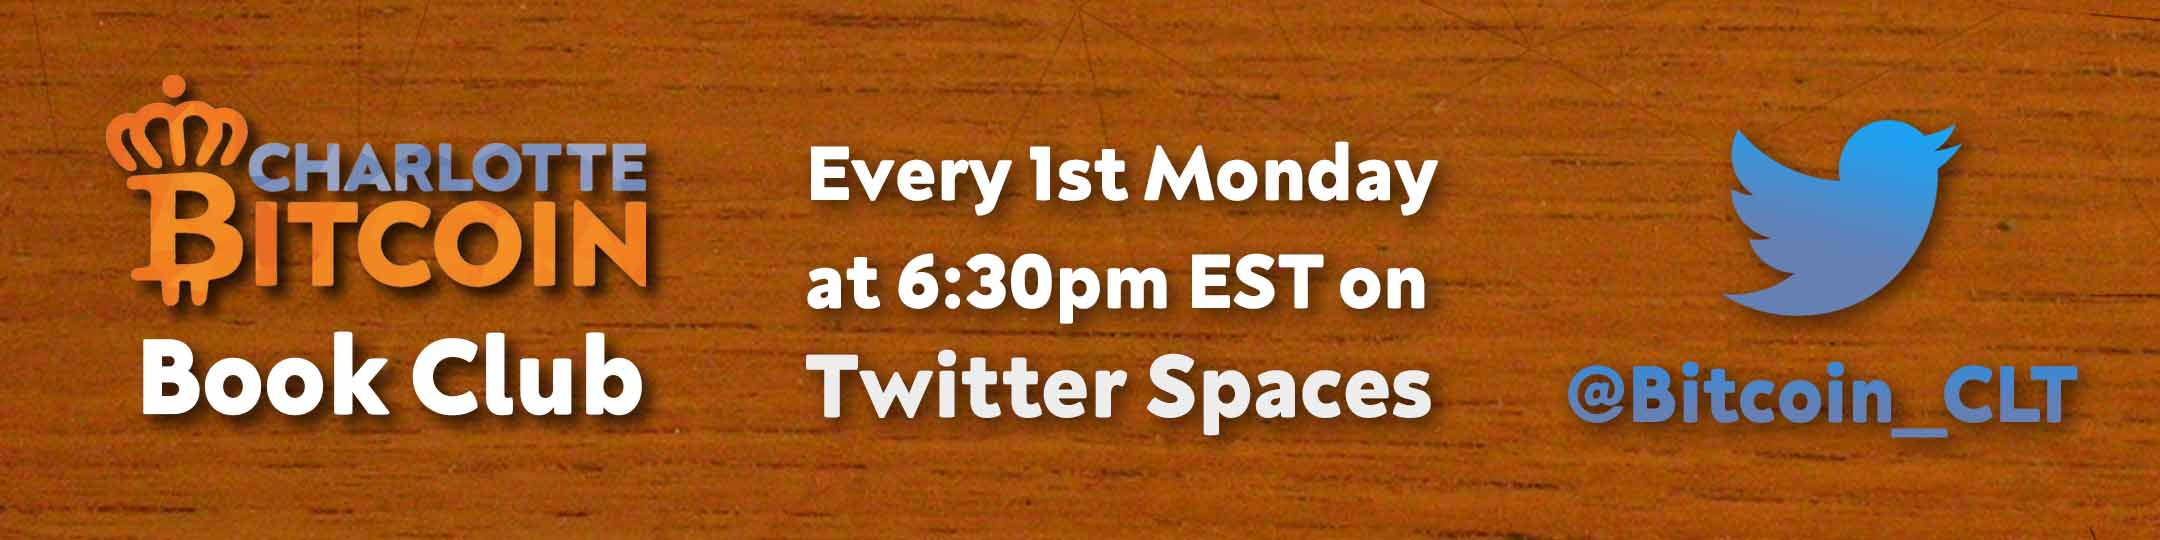
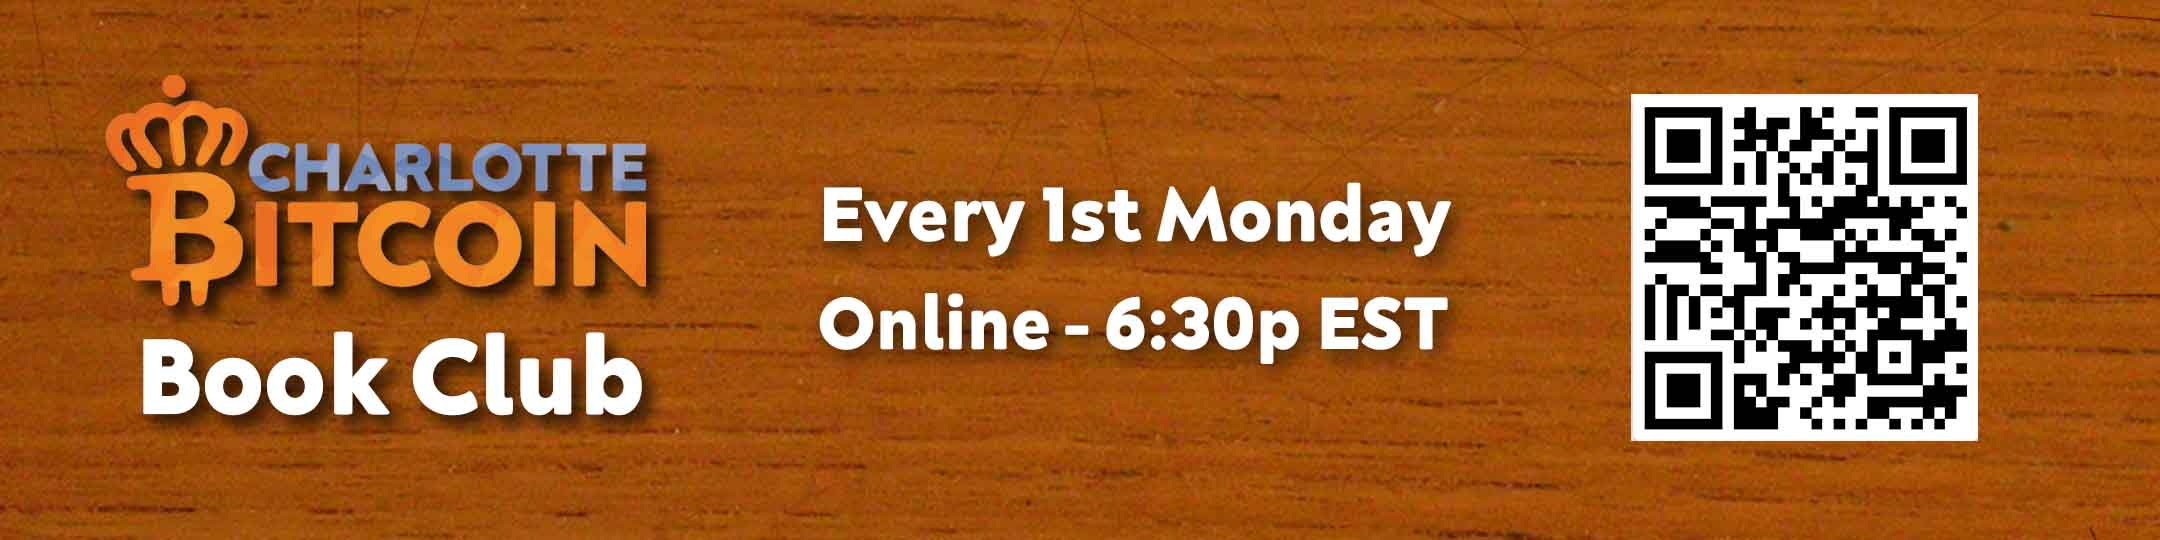
Book club updates to nostr. and other stuff i dont remember.

Changed region(s): [[0.3722, 0.2667, 0.6824, 0.8296], [0.7134, 0.1481, 0.9926, 0.8296]]

diff --git a/source/book-club.md b/source/book-club.md
@@ -11,22 +11,23 @@ active_tab: events
 
 
 <div class="book cleanbook">
-    <a href="https://www.amazon.com/Bitcoin-Beef-Criticisms-Similarities-Decentralization/dp/B09W799F5F/?tag=bitcoincharlo-20" target="_blank"><img src="/assets/img/posts/bookclub/Book10.jpg" alt="Bitcoin and Beef" title="Bitcoin and Beef"/></a>
-</div>
-
-## Book #10 - Bitcoin and Beef
-* [Read](https://www.amazon.com/Bitcoin-Beef-Criticisms-Similarities-Decentralization/dp/B09W799F5F/?tag=bitcoincharlo-20)
-* March 6th, 2023 @ 6:30pm &nbsp; [Download] | [Twitter Spaces](https://twitter.com/i/spaces/1BRJjZVyMeZJw) | [Meetup](https://www.meetup.com/bitcoincharlotte/events/crnhbtyfcfbjb/)
-
----
-
-<div class="book cleanbook">
     <a href="https://braiins.com/books/bitcoin-mining-handbook" target="_blank"><img src="/assets/img/posts/bookclub/Book11.jpg" alt="Bitcoin Mining Handbook" title="Bitcoin Mining Handbook"/></a>
 </div>
 
 ## Book #11 - Bitcoin Mining Handbook
 * [Read](https://braiins.com/books/bitcoin-mining-handbook)
-* April 3rd, 2023 @ 6:30pm &nbsp; [Download] | [Twitter Spaces] | [Meetup](https://www.meetup.com/bitcoincharlotte/events/crnhbtyfcgbfb/)
+* April 3rd, 2023 @ 6:30pm &nbsp; [Download] | [Nostr Nests](https://nostrnests.com/g7377a) | [Meetup](https://www.meetup.com/bitcoincharlotte/events/crnhbtyfcgbfb/)
+
+---
+
+<div class="book cleanbook">
+    <a href="https://www.amazon.com/Bitcoin-Beef-Criticisms-Similarities-Decentralization/dp/B09W799F5F/?tag=bitcoincharlo-20" target="_blank"><img src="/assets/img/posts/bookclub/Book10.jpg" alt="Bitcoin and Beef" title="Bitcoin and Beef"/></a>
+</div>
+
+## Book #10 - Bitcoin and Beef
+* [Read](https://www.amazon.com/Bitcoin-Beef-Criticisms-Similarities-Decentralization/dp/B09W799F5F/?tag=bitcoincharlo-20)
+* <s>March 6th, 2023</s> April 10th, 2023 @ 6:30pm &nbsp; [Download] | [Nostr Nests](https://nostrnests.com/bakghc) | [Meetup](https://www.meetup.com/bitcoincharlotte/events/crnhbtyfcfbjb/)
+* (Postponed due to twitter spaces issues.)
 
 ---
 
@@ -36,7 +37,7 @@ active_tab: events
 
 ## Book #12 - 21 Lessons
 * [Read](https://www.amazon.com/21-Lessons-Learned-Falling-Bitcoin/dp/1697526349/?tag=bitcoincharlo-20) | [Listen](https://www.audible.com/pd/21-Lessons-What-Ive-Learned-from-Falling-Down-the-Bitcoin-Rabbit-Hole-Audiobook/B088C1DK58?qid=1660307416&sr=1-3&ref=a_search_c3_lProduct_1_3&pf_rd_p=83218cca-c308-412f-bfcf-90198b687a2f&pf_rd_r=B905DWC89AWSHMM7T59C)
-* May 1st, 2023 @ 6:30pm &nbsp; [Download] | [Twitter Spaces] | [Meetup](https://www.meetup.com/bitcoincharlotte/events/crnhbtyfchbcb/)
+* May 1st, 2023 @ 6:30pm &nbsp; [Download] | [Meetup](https://www.meetup.com/bitcoincharlotte/events/crnhbtyfchbcb/)
 
 ---
 
@@ -46,7 +47,7 @@ active_tab: events
 
 ## Book #13 - Bitcoin: Hard Money You Can't F\*ck With
 * [Read](https://www.amazon.com/Bitcoin-bitcoin-global-reserve-currency/dp/1838318402/ref=tmm_pap_swatch_0?_encoding=UTF8&qid=1672106445&sr=1-1/?tag=bitcoincharlo-20) | [Listen](https://www.audible.com/pd/Bitcoin-Hard-Money-You-Cant-F-ck-With-Audiobook/B08VBV2PP2?qid=1676312843&sr=1-1&ref=a_search_c3_lProduct_1_1&pf_rd_p=83218cca-c308-412f-bfcf-90198b687a2f&pf_rd_r=5YZQ42Y586WJRD0QMWN2&pageLoadId=JYvU4FfD4HvnLgt4&creativeId=0d6f6720-f41c-457e-a42b-8c8dceb62f2c)
-* June 5th, 2023 @ 6:30pm &nbsp; [Download] | [Twitter Spaces] | [Meetup](https://www.meetup.com/bitcoincharlotte/events/crnhbtyfcjbhb/)
+* June 5th, 2023 @ 6:30pm &nbsp; [Download] | [Meetup](https://www.meetup.com/bitcoincharlotte/events/crnhbtyfcjbhb/)
 
 ---
 
@@ -56,7 +57,7 @@ active_tab: events
 
 ## Book #14 - The UnCommunist Manifesto
 * [Read](https://www.amazon.com/UnCommunist-Manifesto-Message-Responsibility-Liberty/dp/B0B8BRL3RP/?tag=bitcoincharlo-20) | [Listen](https://www.audible.com/pd/The-UNcommunist-Manifesto-with-Mark-Moss-Aleks-Svetski-Podcast/B0B81S4F5Q)
-* July 3rd, 2022 @ 6:30pm &nbsp; [Download] | [Twitter Spaces] | [Meetup](https://www.meetup.com/bitcoincharlotte/events/crnhbtyfckbfb/)
+* July 3rd, 2023 @ 6:30pm &nbsp; [Download] | [Meetup](https://www.meetup.com/bitcoincharlotte/events/crnhbtyfckbfb/)
 
 ---
 
@@ -66,7 +67,7 @@ active_tab: events
 
 ## Book #15 - The Fiat Standard
 * [Read](https://www.amazon.com/Fiat-Standard-Slavery-Alternative-Civilization/dp/1544526474/?tag=bitcoincharlo-20) | [Listen](https://www.audible.com/pd/The-Fiat-Standard-Audiobook/B09VVCK4RY?qid=1676312876&sr=1-1&ref=a_search_c3_lProduct_1_1&pf_rd_p=83218cca-c308-412f-bfcf-90198b687a2f&pf_rd_r=S6DRGKK298XHZHAD1156&pageLoadId=iJoDg7ausHq3S4Iw&creativeId=0d6f6720-f41c-457e-a42b-8c8dceb62f2c)
-* August 7th, 2023 @ 6:30pm &nbsp; [Download] | [Twitter Spaces] | [Meetup](https://www.meetup.com/bitcoincharlotte/events/crnhbtyfclbkb/)
+* August 7th, 2023 @ 6:30pm &nbsp; [Download] | [Meetup](https://www.meetup.com/bitcoincharlotte/events/crnhbtyfclbkb/)
 
 ---
 
@@ -76,7 +77,7 @@ active_tab: events
 
 ## Book #16 - Bitcoin Clarity
 * [Read](https://www.amazon.com/Bitcoin-Clarity-Complete-Beginners-Understanding/dp/1733871209/?tag=bitcoincharlo-20) | [Listen](https://www.audible.com/pd/Bitcoin-Clarity-The-Complete-Beginners-Guide-to-Understanding-Audiobook/B08TTKJKGB?qid=1676312896&sr=1-1&ref=a_search_c3_lProduct_1_1&pf_rd_p=83218cca-c308-412f-bfcf-90198b687a2f&pf_rd_r=PD4ZVPHF8YNQCX0JBWSF&pageLoadId=f7us92pL0kshZOMu&creativeId=0d6f6720-f41c-457e-a42b-8c8dceb62f2c)
-* September 4th, 2023 @ 6:30pm &nbsp; [Download] | [Twitter Spaces] | [Meetup](https://www.meetup.com/bitcoincharlotte/events/crnhbtyfcmbgb/)
+* September 4th, 2023 @ 6:30pm &nbsp; [Download] | [Meetup](https://www.meetup.com/bitcoincharlotte/events/crnhbtyfcmbgb/)
 
 ---
 <div class="book cleanbook">
@@ -85,7 +86,7 @@ active_tab: events
 
 ## Book #17 - The Bullish Case for Bitcoin
 * [Read](https://www.amazon.com/Bullish-Case-Bitcoin-Vijay-Boyapati/dp/1737204118/?tag=bitcoincharlo-20) | [Listen](https://www.audible.com/search?keywords=The+Bullish+Case+for+Bitcoin&ref-override=a_pd_Bitcoi_t1_header_search&k=The+Bullish+Case+for+Bitcoin&crid=2584FGJTPPCY0&sprefix=the+bullish+case+for+bitcoin%2Cna-audible-us%2C61&i=na-audible-us&url=search-alias%3Dna-audible-us&ref=nb_sb_noss_2)
-* October 2nd, 2023 @ 6:30pm &nbsp; [Download] | [Twitter Spaces] | [Meetup](https://www.meetup.com/bitcoincharlotte/events/crnhbtyfcnbdb/)
+* October 2nd, 2023 @ 6:30pm &nbsp; [Download] | [Meetup](https://www.meetup.com/bitcoincharlotte/events/crnhbtyfcnbdb/)
 
 ---
 
@@ -95,7 +96,7 @@ active_tab: events
 
 ## Book #18 - SATOSHI
 * [Read](https://www.amazon.com/SATOSHI-R-D-BOSKOVIC/dp/B096TRSTSY/?tag=bitcoincharlo-20)
-* November 6th, 2023 @ 6:30pm &nbsp; [Download] | [Twitter Spaces] | [Meetup](https://www.meetup.com/bitcoincharlotte/events/crnhbtyfcpbjb/)
+* November 6th, 2023 @ 6:30pm &nbsp; [Download] | [Meetup](https://www.meetup.com/bitcoincharlotte/events/crnhbtyfcpbjb/)
 
 ---
 
@@ -105,7 +106,7 @@ active_tab: events
 
 ## Book #19 - Magic Internet Money
 * [Read](https://www.amazon.com/Magic-Internet-Money-About-Bitcoin/dp/1777128404/?tag=bitcoincharlo-20) | [Listen](https://www.audible.com/pd/Magic-Internet-Money-Audiobook/B0BCH5FPWX?qid=1676312950&sr=1-1&ref=a_search_c3_lProduct_1_1&pf_rd_p=83218cca-c308-412f-bfcf-90198b687a2f&pf_rd_r=N863F2P4GEWN18HH3ABQ&pageLoadId=lTBIdubA5ScGOqCZ&creativeId=0d6f6720-f41c-457e-a42b-8c8dceb62f2c)
-* December 4th, 2023 @ 6:30pm &nbsp; [Download] | [Twitter Spaces] | [Meetup](https://www.meetup.com/bitcoincharlotte/events/crnhbtyfcqbgb/)
+* December 4th, 2023 @ 6:30pm &nbsp; [Download] | [Meetup](https://www.meetup.com/bitcoincharlotte/events/crnhbtyfcqbgb/)
 
 ---
 
@@ -115,7 +116,7 @@ active_tab: events
 
 ## Book #20 - The Fourth Turning
 * [Read](https://www.amazon.com/Fourth-Turning-American-Prophecy-Rendezvous/dp/0767900464/?tag=bitcoincharlo-20) | [Listen](https://www.audible.com/pd/The-Fourth-Turning-Audiobook/B002UZN3YI?qid=1676312965&sr=1-1&ref=a_search_c3_lProduct_1_1&pf_rd_p=83218cca-c308-412f-bfcf-90198b687a2f&pf_rd_r=Y31GDPD2BEB4GMY7ETEW&pageLoadId=Z6hAqCEchmvkUc2s&creativeId=0d6f6720-f41c-457e-a42b-8c8dceb62f2c)
-* February 4th, 2024 @ 6:30pm &nbsp; [Download] | [Twitter Spaces] | [Meetup](https://www.meetup.com/bitcoincharlotte/events/crnhbtygcdbhb/)
+* February 4th, 2024 @ 6:30pm &nbsp; [Download] | [Meetup](https://www.meetup.com/bitcoincharlotte/events/crnhbtygcdbhb/)
 
 ---
 

diff --git a/source/event-2022-01-27.md b/source/event-2022-01-27.md
@@ -9,11 +9,17 @@ active_tab: events
 
 # Holiday Party + Gift Exchange
 
-### > [Link to Meetup Page](https://www.meetup.com/BitcoinCharlotte/events/282286991/)
-
 Thank you to [Bitrefill](https://www.bitrefill.com/signup/?code=hrft8gzz) for sponsoring the event! 
+<br>
+<br>
+
+<iframe width="560" height="315" src="https://www.youtube.com/embed/R2LP6JoZuAk" title="YouTube video player" frameborder="0" allow="accelerometer; autoplay; clipboard-write; encrypted-media; gyroscope; picture-in-picture; web-share" allowfullscreen></iframe>
+
 
 <blockquote class="twitter-tweet"><p lang="en" dir="ltr">Great time last night at holiday party! Really fun Bitcoin themed white elephant gifts! Thanks to all who attended! <a href="https://twitter.com/hashtag/bitcoin?src=hash&amp;ref_src=twsrc%5Etfw">#bitcoin</a> <a href="https://t.co/EgCBhEGwxG">pic.twitter.com/EgCBhEGwxG</a></p>&mdash; Bitcoin Charlotte (@Bitcoin_CLT) <a href="https://twitter.com/Bitcoin_CLT/status/1487261864841129985?ref_src=twsrc%5Etfw">January 29, 2022</a></blockquote> <script async src="https://platform.twitter.com/widgets.js" charset="utf-8"></script>
+
+
+### > [Link to Meetup Page](https://www.meetup.com/BitcoinCharlotte/events/282286991/)
 
 ---
 

diff --git a/source/events.md b/source/events.md
@@ -139,7 +139,7 @@ active_tab: events
 
 # About Bitcoin Charlotte
  
-Bitcoin Charlotte is a local bitcoin community created in 2013 in Charlotte, North Carolina. We host socials and educational events to learn about Bitcoin. Our intention is to connect in person for networking, education and fun. We hope to liberate individuals and companies financial dependency on traditional banks and governments by assisting them in using a better form of money, Bitcoin. 
+Bitcoin Charlotte is a local bitcoin community created in 2013 in Charlotte, North Carolina. We host socials and educational events to learn about Bitcoin. We connect in person for networking, education and fun. Our mission is to liberate individuals and companies financial dependency on traditional banks and governments by assisting them in using a better form of money, Bitcoin. 
 
 
 ## Team 

diff --git a/source/about.md b/source/about.md
@@ -6,7 +6,7 @@ active_tab: about
 ---
 # About Bitcoin Charlotte 
 
-Bitcoin Charlotte is a local bitcoin community created in 2013 in Charlotte, North Carolina. We host socials and educational events to learn about Bitcoin and have some fun while doing it! We hope to liberate individuals and companies from financial dependency on traditional banks and governments by assisting them in using a better form of money, Bitcoin. 
+Bitcoin Charlotte is a local bitcoin community created in 2013 in Charlotte, North Carolina. We host socials and educational events to learn about Bitcoin and have some fun while doing it! We hope to liberate individuals and companies from financial dependency on traditional banks and governments by assisting them in using a better form of money, Bitcoin.
 
 
 ## Bitcoin Charlotte Team 
